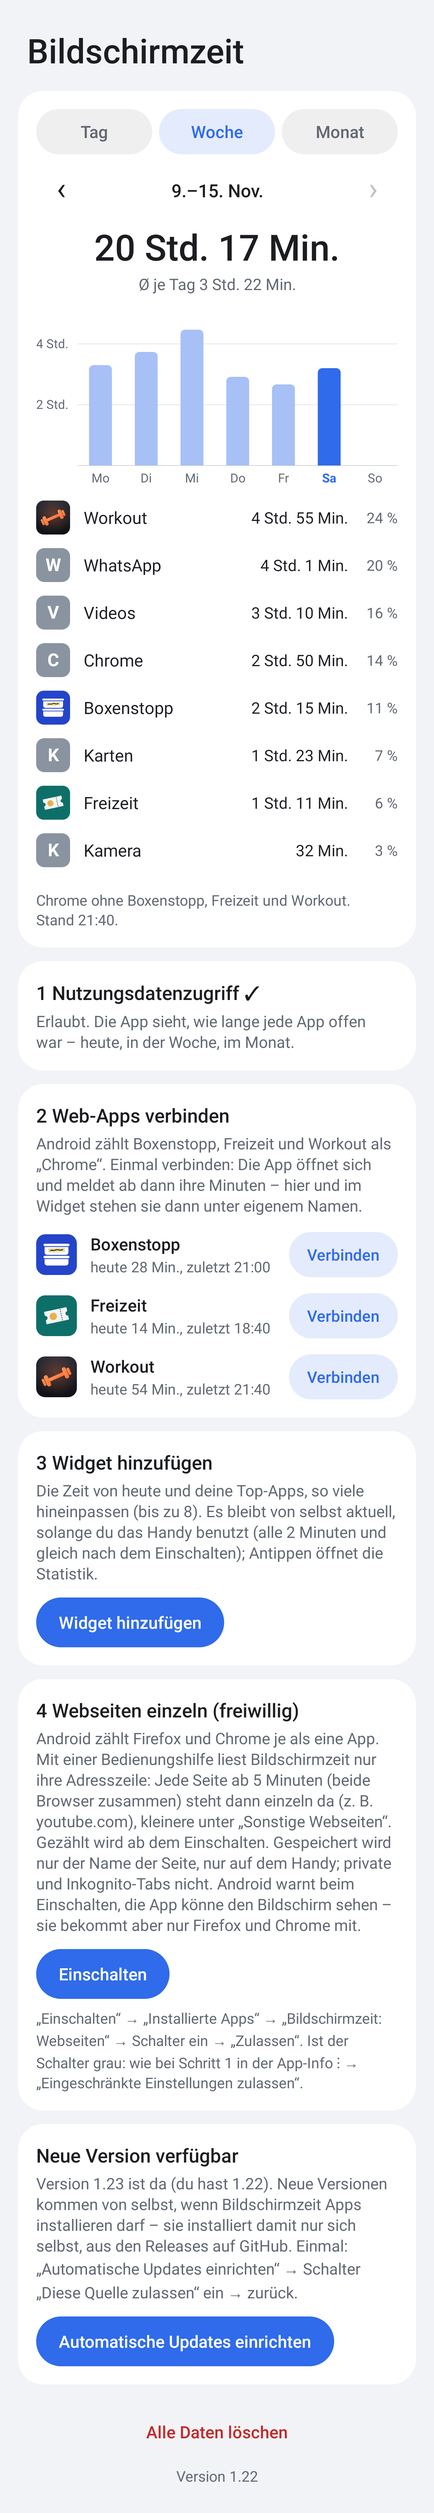
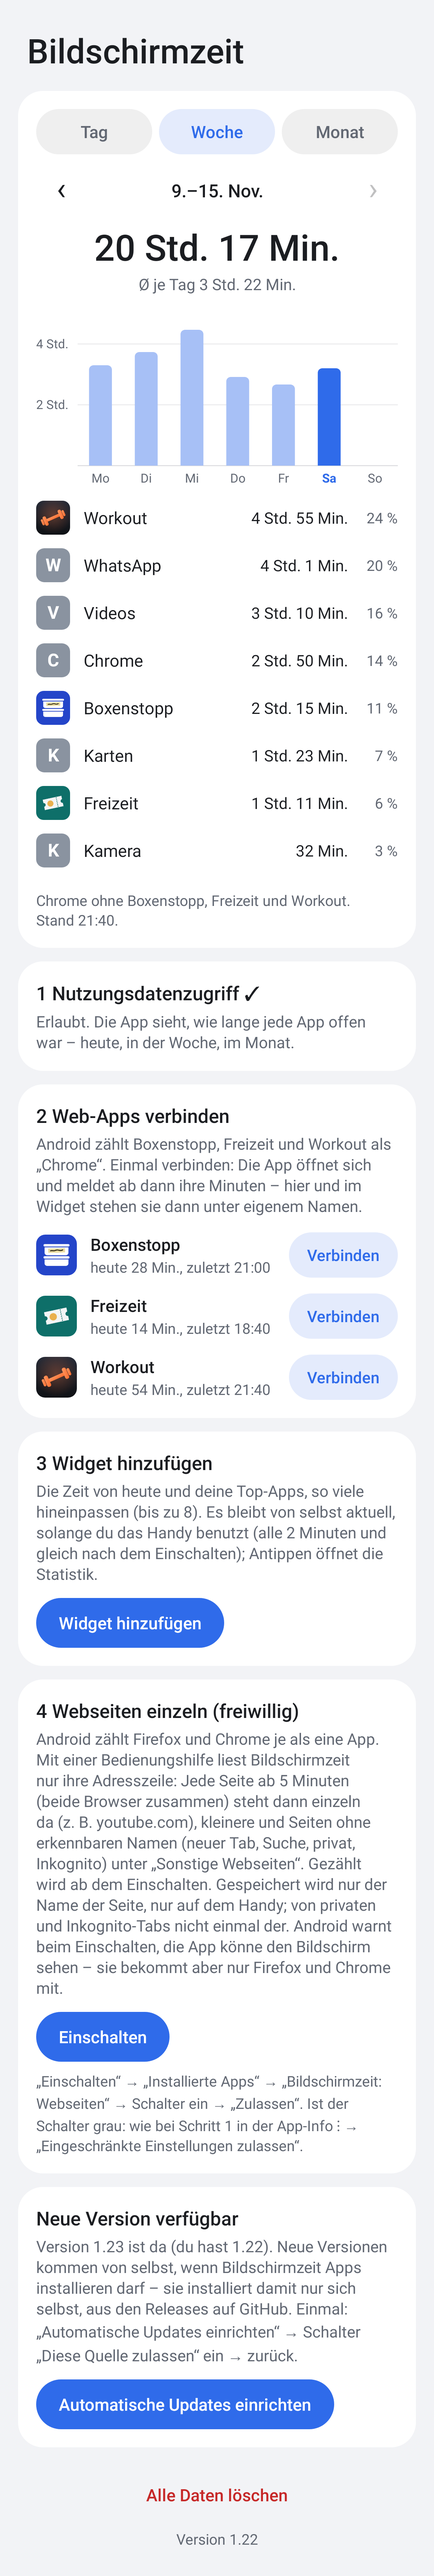
Browser nur noch, wo kein Web ist: Seiten ohne Namen zu „Sonstige Webseiten“ (v11)
Tobi (Widget mit „Chrome 7 Min.“): „Eigentlich dürften Chrome und
Firefox ja garnicht mehr auftauchen oder?“

- Der Dienst merkt sich jetzt drei Arten: eine Domain; „?“ – eine Seite
  ohne erkennbaren Namen (neuer Tab, Suchbegriffe statt Adresse, about:,
  privat, Inkognito), zählt zu „Sonstige Webseiten“ und steht nie einzeln;
  „kein Web“ (installierte Web-App, Custom Tab ohne Leiste, Tobis Web-Apps
  in Chrome) – bleibt beim Browser. Vorher blieben „?“ und „kein Web“
  beide beim Browser. Neu: Befund.KeinWeb, zuMerken, OHNE_DOMAIN.
- „Chrome“/„Firefox“ steht damit nur noch für Web-Apps, die ihre Zeit
  noch nicht an Supabase gemeldet haben, und für Zeit ohne Bedienungshilfe.
- Karte 4 nennt je Browser die zuletzt erkannte Seite („… in Firefox,
  12:20; in Chrome noch keine Seite“). Text der Karte nachgezogen.

Tests: WebseitenTest.wasDerDienstSichMerkt, chromeLeiste (KeinWeb),
WebseitenGeraetTest (Suche → Sonstige, Web-App → Chrome, Summe gleich;
Karte 4 je Browser). 219 JUnit/Robolectric grün, Lint ohne Fehler, npm
test grün.

Claude-Session: https://claude.ai/code/session_01T7EkPKmbwzuumuawqyKHqq

diff --git a/android/app/src/main/kotlin/de/finanzdienste/bildschirmzeit/Webseiten.kt b/android/app/src/main/kotlin/de/finanzdienste/bildschirmzeit/Webseiten.kt
@@ -60,6 +60,14 @@ const val SONSTIGE_KURZ = "Sonstige Seiten"
  */
 const val WEB_APPS_DOMAIN = "finanzdienste.github.io"
 
+/**
+ * „Eine Seite, aber ohne erkennbare Domain“: neuer Tab, Suchbegriffe statt
+ * Adresse, about:, private und Inkognito-Tabs. Zählt zu „Sonstige Webseiten“,
+ * nie einzeln – Tobi, 16.11., Widget mit „Chrome 7 Min.“: „Eigentlich dürften
+ * Chrome und Firefox ja garnicht mehr auftauchen oder?“
+ */
+const val OHNE_DOMAIN = "?"
+
 /** Eine Beobachtung gilt höchstens so lange, wenn danach keine mehr kam (Vollbild-Video: keine Leiste zu sehen). */
 const val BEOBACHTUNG_GILT_MS = 12 * 60 * 60 * 1000L
 
@@ -138,11 +146,14 @@ interface Knoten {
 sealed interface Befund {
     data class Seite(val domain: String) : Befund
 
-    /** Leiste da, aber keine Seite (neuer Tab, Startseite, about:, Suchtext): Firefox ohne Seite. */
+    /** Leiste da, aber keine Domain (neuer Tab, Startseite, about:, Suchbegriffe): „Sonstige Webseiten“. */
     data object Keine : Befund
 
-    /** Ein privater Tab: keine Domain merken, die Zeit bleibt Firefox. */
+    /** Ein privater bzw. Inkognito-Tab: keine Domain merken – „Sonstige Webseiten“. */
     data object Privat : Befund
+
+    /** Kein Web: eine installierte Web-App oder ein Custom Tab ohne Leiste – die Zeit bleibt beim Browser. */
+    data object KeinWeb : Befund
 
     /** Keine Leiste zu sehen (Vollbild-Video, Tab-Übersicht) oder gerade in Eingabe: das Bisherige gilt weiter. */
     data object Unbekannt : Befund
@@ -153,6 +164,18 @@ sealed interface Befund {
  * zählen über Supabase als Boxenstopp, Freizeit, Workout).
  */
 fun gemerkteDomain(paket: String, domain: String): String? = if (paket in CHROMES && domain == WEB_APPS_DOMAIN) null else domain
+
+/**
+ * Was zu einem Befund in die Beobachtungen kommt: die Domain, OHNE_DOMAIN
+ * (eine Seite ohne Namen), null (kein Web, die Zeit bleibt beim Browser) –
+ * oder gar nichts (Unbekannt: das Bisherige gilt weiter, Rückgabe `false`).
+ */
+fun zuMerken(paket: String, befund: Befund): Pair<Boolean, String?> = when (befund) {
+    is Befund.Seite -> true to gemerkteDomain(paket, befund.domain)
+    Befund.Keine, Befund.Privat -> true to OHNE_DOMAIN
+    Befund.KeinWeb -> true to null
+    Befund.Unbekannt -> false to null
+}
 
 /**
  * Die Adresszeile im Baum finden. Firefox – nachgelesen in den Quellen
@@ -214,7 +237,7 @@ object Leiste {
         return when {
             privat -> Befund.Privat
             gefunden != null -> gefunden
-            ohneLeiste(fenster) -> Befund.Keine
+            ohneLeiste(fenster) -> Befund.KeinWeb
             else -> Befund.Unbekannt
         }
     }
@@ -331,9 +354,9 @@ fun seitenAbziehen(geteilt: Map<String, Long>, seiten: Map<String, Long>, mindes
  */
 fun einzelneDomains(sekunden: Map<String, Long>, immer: String? = null): Set<String> {
     val jeDomain = HashMap<String, Long>()
-    for ((k, s) in sekunden) seiteVon(k)?.let { (_, d) -> jeDomain[d] = (jeDomain[d] ?: 0L) + s }
+    for ((k, s) in sekunden) seiteVon(k)?.let { (_, d) -> if (d != OHNE_DOMAIN) jeDomain[d] = (jeDomain[d] ?: 0L) + s }
     val aus = jeDomain.filterValues { it >= WEBSEITE_EINZELN_SEKUNDEN }.keys.toMutableSet()
-    if (immer != null && immer.startsWith(WEBSEITE) && immer != SONSTIGE_WEBSEITEN) aus += immer.removePrefix(WEBSEITE)
+    if (immer != null && immer.startsWith(WEBSEITE) && immer != SONSTIGE_WEBSEITEN && immer != WEBSEITE + OHNE_DOMAIN) aus += immer.removePrefix(WEBSEITE)
     return aus
 }
 
@@ -395,8 +418,10 @@ class Beobachtungen(context: Context) {
         alleLesen().filter { it.zeit in (von - BEOBACHTUNG_GILT_MS)..bis }
     }
 
-    /** Die letzte erkannte Seite – für „zuletzt erkannt: youtube.com, 16:40“. */
-    fun zuletztErkannt(): Beobachtung? = synchronized(SPERRE) { alleLesen().lastOrNull { it.domain != null } }
+    /** Die letzte erkannte Seite (mit Namen) – für „zuletzt erkannt: youtube.com in Firefox, 16:40“; `pakete`: nur diese Browser. */
+    fun zuletztErkannt(pakete: Set<String> = BROWSER): Beobachtung? = synchronized(SPERRE) {
+        alleLesen().lastOrNull { it.domain != null && it.domain != OHNE_DOMAIN && it.paket in pakete }
+    }
 
     /** Ältere als BEOBACHTUNG_BEHALTEN_MS weg – sie gelten ohnehin nicht mehr (BEOBACHTUNG_GILT_MS). */
     fun aufraeumen(jetzt: Long) = synchronized(SPERRE) {

diff --git a/android/app/src/test/kotlin/de/finanzdienste/bildschirmzeit/WebseitenGeraetTest.kt b/android/app/src/test/kotlin/de/finanzdienste/bildschirmzeit/WebseitenGeraetTest.kt
@@ -191,9 +191,10 @@ class WebseitenGeraetTest {
     /**
      * Tobi, 16.11.: „Das gleiche für Chrome. … alles unter fünf min unter sonstige
      * websiten … Also Chrome und Firefox addiert“. Firefox 20–21 Uhr (40 Min.
-     * youtube.com, 20 Min. spiegel.de), Chrome 21:00–21:30 (10 Min. youtube.com,
-     * 2 Min. klein.de, dann eine Web-App), Chat 10 Min.: youtube.com 50 Min.,
-     * spiegel.de 20, Chrome 18, Chat 10, „Sonstige Webseiten“ 2 – zusammen 100.
+     * youtube.com, 15 Min. spiegel.de, 5 Min. Suche ohne Adresse), Chrome
+     * 21:00–21:30 (10 Min. youtube.com, 2 Min. klein.de, dann eine Web-App),
+     * Chat 10 Min.: youtube.com 50 Min., Chrome 18 (nur die Web-App), spiegel.de
+     * 15, Chat 10, „Sonstige Webseiten“ 7 (Suche und klein.de) – zusammen 100.
      */
     @Test
     fun chromeUndFirefoxZusammenKleineUnterSonstige() {
@@ -203,13 +204,16 @@ class WebseitenGeraetTest {
         val b = Beobachtungen(kontext)
         b.merken(Beobachtung(um(20), ff, "youtube.com"))
         b.merken(Beobachtung(um(20, 40), ff, "spiegel.de"))
+        // Ab 20:55 eine Google-Suche (Suchbegriffe statt Adresse): „Sonstige Webseiten“.
+        b.merken(Beobachtung(um(20, 55), ff, zuMerken(ff, Befund.Keine).second))
         b.merken(Beobachtung(um(21), CHROME, "youtube.com"))
         b.merken(Beobachtung(um(21, 10), CHROME, "klein.de"))
-        b.merken(Beobachtung(um(21, 12), CHROME, gemerkteDomain(CHROME, "finanzdienste.github.io")))
+        // Ab 21:12 eine installierte Web-App (kein Web): bleibt Chrome.
+        b.merken(Beobachtung(um(21, 12), CHROME, zuMerken(CHROME, Befund.KeinWeb).second))
         val e = Rechner.berechnen(kontext, netz = false, jetzt = um(21, 40))
         assertEquals(100 * 60L, e.gesamt)
         assertEquals(
-            listOf("youtube.com" to 50 * 60L, "spiegel.de" to 20 * 60L, "Chrome" to 18 * 60L, "Chat" to 10 * 60L, "Sonstige Webseiten" to 2 * 60L),
+            listOf("youtube.com" to 50 * 60L, "Chrome" to 18 * 60L, "spiegel.de" to 15 * 60L, "Chat" to 10 * 60L, "Sonstige Webseiten" to 7 * 60L),
             e.posten.map { it.name to it.sekunden },
         )
         // Im Verlauf je Browser (für nieWeniger), auch die kleine Seite.
@@ -253,6 +257,14 @@ class WebseitenGeraetTest {
         assertEquals(kontext.getString(R.string.schritt4_noch_nichts), text(R.id.schritt4_stand))
         Beobachtungen(kontext).merken(Beobachtung(um(21, 35), ff, "youtube.com"))
         a.schritt4Zeigen()
-        assertEquals("Läuft. Zuletzt erkannt: youtube.com, ${zeitpunktText(um(21, 35), um(21, 40))}.", text(R.id.schritt4_stand))
+        assertEquals("Läuft. Zuletzt erkannt: youtube.com in Firefox, ${zeitpunktText(um(21, 35), um(21, 40))}; in Chrome noch keine Seite.", text(R.id.schritt4_stand))
+        // Je Browser: dann auch Chrome; eine Seite ohne Namen zählt dafür nicht.
+        Beobachtungen(kontext).merken(Beobachtung(um(21, 36), CHROME, "spiegel.de"))
+        Beobachtungen(kontext).merken(Beobachtung(um(21, 37), CHROME, OHNE_DOMAIN))
+        a.schritt4Zeigen()
+        assertEquals(
+            "Läuft. Zuletzt erkannt: youtube.com in Firefox, ${zeitpunktText(um(21, 35), um(21, 40))}; spiegel.de in Chrome, ${zeitpunktText(um(21, 36), um(21, 40))}.",
+            text(R.id.schritt4_stand),
+        )
     }
 }

diff --git a/android/app/src/test/kotlin/de/finanzdienste/bildschirmzeit/WebseitenTest.kt b/android/app/src/test/kotlin/de/finanzdienste/bildschirmzeit/WebseitenTest.kt
@@ -213,10 +213,10 @@ class WebseitenTest {
         // Inkognito: das Abzeichen in der Leiste.
         assertEquals(Befund.Privat, Leiste.lesen(baum(K(id = "$cr:id/location_bar_incognito_badge", beschreibung = "Inkognitomodus"), leiste), cr))
         assertTrue(Leiste.privatZaehler("Incognito mode"))
-        // Ohne Leiste: in einer installierten Web-App oder einem Custom Tab keine Seite, im Browser (Vollbild) das Bisherige.
+        // Ohne Leiste: eine installierte Web-App oder ein Custom Tab ist kein Web (bleibt beim Browser), im Browser (Vollbild) das Bisherige.
         val ohne = K(unten = listOf(seiteninhalt(30)))
-        assertEquals(Befund.Keine, Leiste.lesen(ohne, cr, "org.chromium.chrome.browser.webapps.SameTaskWebApkActivity"))
-        assertEquals(Befund.Keine, Leiste.lesen(ohne, cr, "org.chromium.chrome.browser.customtabs.CustomTabActivity"))
+        assertEquals(Befund.KeinWeb, Leiste.lesen(ohne, cr, "org.chromium.chrome.browser.webapps.SameTaskWebApkActivity"))
+        assertEquals(Befund.KeinWeb, Leiste.lesen(ohne, cr, "org.chromium.chrome.browser.customtabs.CustomTabActivity"))
         assertEquals(Befund.Unbekannt, Leiste.lesen(ohne, cr, "org.chromium.chrome.browser.ChromeTabbedActivity"))
         assertEquals(Befund.Unbekannt, Leiste.lesen(ohne, ff, "org.mozilla.fenix.HomeActivity"))
     }
@@ -278,5 +278,26 @@ class WebseitenTest {
         assertEquals(200L, auswerten(Zeitraum.um(Reiter.TAG, mo), verlauf, mo.plusDays(1), mo, nur = WEBSEITE + "youtube.com").gesamt)
         // „Sonstige Webseiten“ angetippt: am Montag die 200 s.
         assertEquals(200L, auswerten(Zeitraum.um(Reiter.TAG, mo), verlauf, mo.plusDays(1), mo, nur = SONSTIGE_WEBSEITEN).gesamt)
+    }
+    /**
+     * Tobi, 16.11. (Widget mit „Chrome 7 Min.“): „Eigentlich dürften Chrome und
+     * Firefox ja garnicht mehr auftauchen oder?“ – Browserzeit ohne erkennbaren
+     * Namen (neuer Tab, Suchbegriffe, privat, Inkognito) zählt zu „Sonstige
+     * Webseiten“; nur Web-Apps (kein Web) bleiben beim Browser.
+     */
+    @Test
+    fun wasDerDienstSichMerkt() {
+        assertEquals(true to "youtube.com", zuMerken(ff, Befund.Seite("youtube.com")))
+        assertEquals(true to OHNE_DOMAIN, zuMerken(ff, Befund.Keine))
+        assertEquals(true to OHNE_DOMAIN, zuMerken(CHROME, Befund.Privat))
+        assertEquals(true to null, zuMerken(CHROME, Befund.KeinWeb))
+        assertEquals(true to null, zuMerken(CHROME, Befund.Seite("finanzdienste.github.io")))
+        assertEquals(false to null, zuMerken(ff, Befund.Unbekannt))
+        // Eine Seite ohne Namen steht nie einzeln da, auch über 5 Minuten.
+        val gezeigt = webseitenZusammenfassen(
+            listOf(Posten(seitenSchluessel(CHROME, OHNE_DOMAIN), "?", 900L), Posten(seitenSchluessel(ff, "youtube.com"), "youtube.com", 100L), Posten(CHROME, "Chrome", 60L)),
+        )
+        assertEquals(listOf("Sonstige Webseiten" to 1000L, "Chrome" to 60L), gezeigt.map { it.name to it.sekunden })
+        assertEquals(SONSTIGE_NAME, anzeigename(seitenSchluessel(ff, OHNE_DOMAIN)))
     }
 }

diff --git a/android/app/src/main/kotlin/de/finanzdienste/bildschirmzeit/MainActivity.kt b/android/app/src/main/kotlin/de/finanzdienste/bildschirmzeit/MainActivity.kt
@@ -520,10 +520,21 @@ class MainActivity : Activity(), UpdateBeobachter {
         val stand = when {
             !an -> null
             !WebseitenStatus.laeuft(this) -> getString(R.string.schritt4_haengt)
-            else -> Beobachtungen(this).zuletztErkannt()?.let { getString(R.string.schritt4_zuletzt, it.domain, zeitpunktText(it.zeit, jetzt())) }
-                ?: getString(R.string.schritt4_noch_nichts)
+            else -> zuletztText(Beobachtungen(this), jetzt())
         }
         textSetzen(R.id.schritt4_stand, stand)
+    }
+
+    /**
+     * „Läuft. Zuletzt erkannt: o2mail.de in Firefox, 19:46; in Chrome noch
+     * keine Seite.“ – je Browser, damit man sieht, ob beide gelesen werden.
+     */
+    private fun zuletztText(b: Beobachtungen, jetzt: Long): String {
+        val teile = listOf("Firefox" to FIREFOXE, "Chrome" to CHROMES).map { (name, pakete) ->
+            b.zuletztErkannt(pakete)?.let { "${it.domain} in $name, ${zeitpunktText(it.zeit, jetzt)}" } ?: "in $name noch keine Seite"
+        }
+        if (teile.all { it.startsWith("in ") }) return getString(R.string.schritt4_noch_nichts)
+        return getString(R.string.schritt4_zuletzt, teile.joinToString("; "))
     }
 
     private fun webZeilenAnlegen() {

diff --git a/android/app/src/main/kotlin/de/finanzdienste/bildschirmzeit/WebseitenDienst.kt b/android/app/src/main/kotlin/de/finanzdienste/bildschirmzeit/WebseitenDienst.kt
@@ -83,11 +83,8 @@ class WebseitenDienst : AccessibilityService() {
         }
         val (paket, b) = befund
         val jetzt = System.currentTimeMillis()
-        when (b) {
-            is Befund.Seite -> Beobachtungen(this).merken(Beobachtung(jetzt, paket, gemerkteDomain(paket, b.domain)))
-            Befund.Keine, Befund.Privat -> Beobachtungen(this).merken(Beobachtung(jetzt, paket, null))
-            Befund.Unbekannt -> Unit
-        }
+        val (merken, domain) = zuMerken(paket, b)
+        if (merken) Beobachtungen(this).merken(Beobachtung(jetzt, paket, domain))
     }
 
     override fun onInterrupt() = Unit

diff --git a/android/app/src/main/kotlin/de/finanzdienste/bildschirmzeit/Verlauf.kt b/android/app/src/main/kotlin/de/finanzdienste/bildschirmzeit/Verlauf.kt
@@ -73,7 +73,7 @@ data class Tag(
 }
 
 /** Der Name eines Schlüssels, der keinen vom System braucht: Web-App, Seite (die Domain) oder „Sonstige Webseiten“. */
-fun anzeigename(schluessel: String): String? = WebApp.von(schluessel)?.anzeigename ?: seiteVon(schluessel)?.second ?: when {
+fun anzeigename(schluessel: String): String? = WebApp.von(schluessel)?.anzeigename ?: seiteVon(schluessel)?.second?.let { if (it == OHNE_DOMAIN) SONSTIGE_NAME else it } ?: when {
     schluessel == SONSTIGE_WEBSEITEN -> SONSTIGE_NAME
     schluessel.startsWith(WEBSEITE) -> schluessel.removePrefix(WEBSEITE)
     else -> null

diff --git a/README.md b/README.md
@@ -76,6 +76,13 @@ der Statistik, mit dem Weg über die eingeschränkte Einstellung).
   Entschieden: Browserzeit ohne erkannte Seite (neuer Tab, privat, Dienst aus)
   bleibt „Firefox“ bzw. „Chrome“; Tobis Web-Apps zählen in Chrome weiter als
   Boxenstopp, Freizeit und Workout, nicht als Seite.
+- „Eigentlich dürften Chrome und Firefox ja garnicht mehr auftauchen oder?“
+  (16.11., 12:29, Widget mit „Chrome 7 Min.“) – seit v11 zählt Browserzeit
+  ohne erkennbaren Namen (neuer Tab, Suchbegriffe statt Adresse, about:,
+  privat, Inkognito) zu „Sonstige Webseiten“. „Chrome“/„Firefox“ bleibt nur
+  für installierte Web-Apps (kein Web; bei Tobis Web-Apps die Zeit, die sie
+  noch nicht an Supabase gemeldet haben) und für Zeit, in der die
+  Bedienungshilfe nicht lief.
 - „Ich will auch auf ne eigene App klicken und dann deren verteilung zb über
   die Woche sehen können“ (15.11., 17:21, Screenshot der Woche in v7) – ein
   Tipp auf eine App in der Statistik zeigt nur sie, je Tag (unten „Eine App
@@ -949,6 +956,21 @@ ein → „Zulassen“. Ist der Schalter grau („eingeschränkte Einstellung“
 bei Schritt 1 in der App-Info ⋮ → „Eingeschränkte Einstellungen zulassen“
 (laut AOSP gilt die Freigabe von Schritt 1 für alle eingeschränkten
 Einstellungen der App).
+
+**v11 – Browser nur noch, wo kein Web ist:** Der Dienst merkt sich drei
+Arten: eine Domain; `?` („eine Seite ohne erkennbaren Namen“: neuer Tab,
+Suchbegriffe, about:, privat, Inkognito – zählt zu „Sonstige Webseiten“, nie
+einzeln, auch über 5 Minuten); „kein Web“ (installierte Web-App, Custom Tab
+ohne Leiste, Tobis Web-Apps in Chrome – bleibt beim Browser). Vorher galten
+`?` und „kein Web“ beide als „keine Seite“ und blieben beim Browser. Karte 4
+nennt je Browser die zuletzt erkannte Seite („youtube.com in Firefox, 12:20;
+in Chrome noch keine Seite“), damit man sieht, ob beide gelesen werden.
+Beobachtungen von vor v11 bleiben, wie sie waren (ihr „keine Seite“ lässt sich
+nicht nachträglich trennen).
+Geprüft: `WebseitenTest.wasDerDienstSichMerkt` (die drei Arten, `?` nie
+einzeln), `WebseitenGeraetTest.chromeUndFirefoxZusammenKleineUnterSonstige`
+(Suche → Sonstige, Web-App → Chrome, Summe gleich),
+`karteVierAusAnUndWasZuletztKam` (je Browser, `?` zählt nicht als erkannt).
 
 **Geprüft (v10):** `WebseitenTest.chromeLeiste` (url_bar mit und ohne Fokus,
 Suchbegriffe, neuer Tab, Inkognito, Web-App, Custom Tab, Vollbild),
